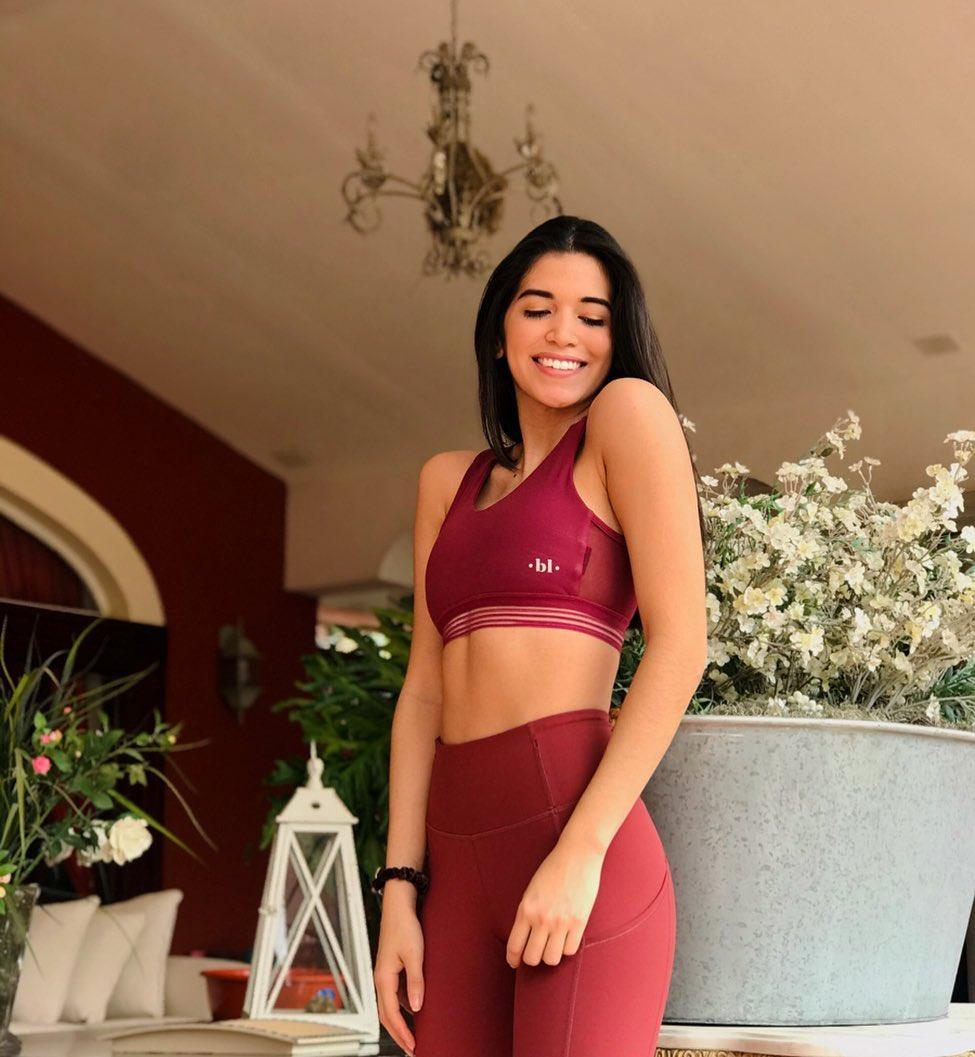
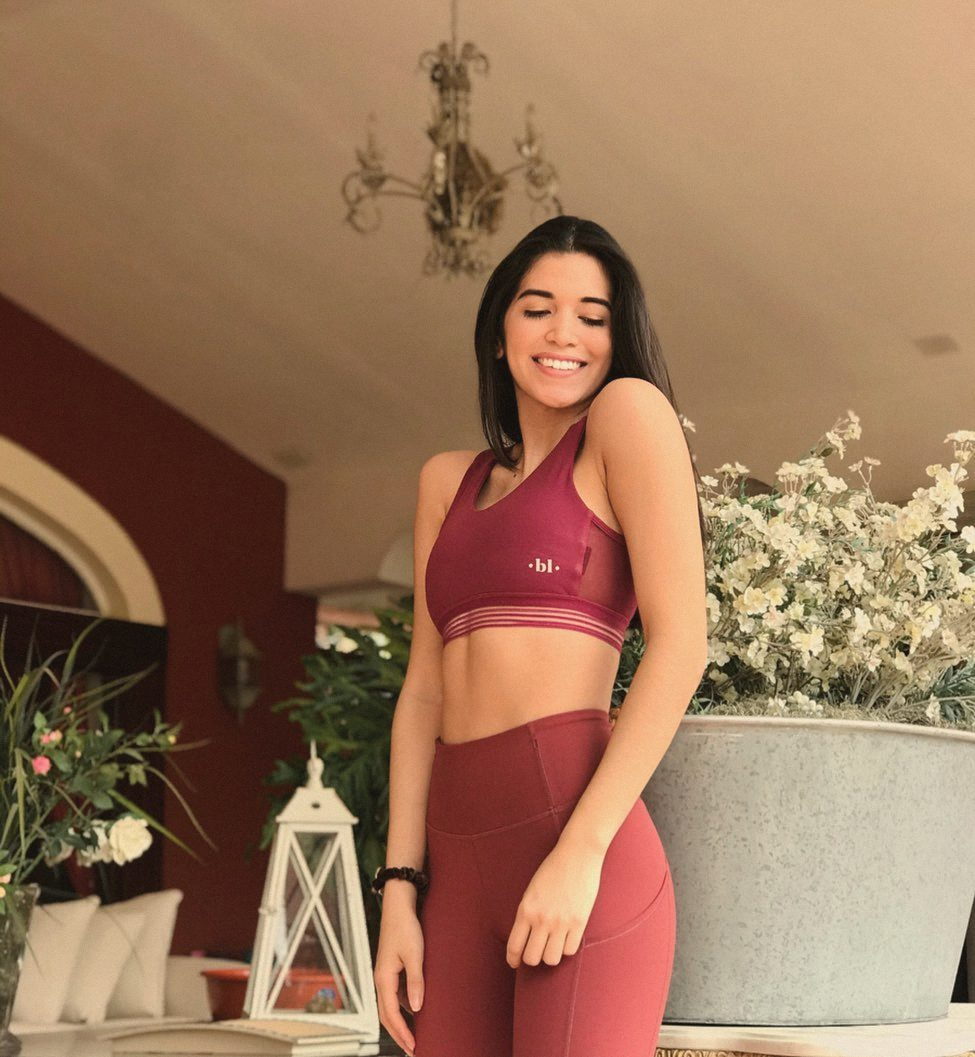
Polish homepage flow, photo grade and gallery
Warm film grade on all site photos (lighter on product mockups), resized.
Section rhythm: welcome block, story with kayak photo in arch, videos,
editorial mosaic gallery, collection teaser; consistent spacing, radii
and fade-in. Removed pool shot and unused images. Form unchanged.

Claude-Session: https://claude.ai/code/session_01Q68BjWFDyDSHyHZgopsCK4

diff --git a/index.html b/index.html
@@ -3,7 +3,8 @@
 <link rel="icon" href="fotos/amuru-symbol.png">
 <link rel="preload" href="fonts/cormorant-garamond-latin-500-normal.woff2" as="font" type="font/woff2" crossorigin>
 <link rel="preload" href="fonts/jost-latin-400-normal.woff2" as="font" type="font/woff2" crossorigin>
-<link rel="stylesheet" href="assets/site.css?v=2"></head>
+<script>document.documentElement.classList.add("js")</script>
+<link rel="stylesheet" href="assets/site.css?v=4"></head>
 <body class="home">
 <header class="site-header" id="top"><div class="bar wrap"><a class="brand" href="#top" aria-label="AMURU, home"><img src="fotos/amuru-symbol.png" alt=""/><span>AMURU</span></a><nav class="nav" aria-label="Main navigation"><a href="collection.html">Collection</a><a href="https://www.tiktok.com/@mafervasquezz" target="_blank" rel="noopener noreferrer">TikTok</a><a href="https://www.instagram.com/amuru.wellness/" target="_blank" rel="noopener noreferrer">Instagram</a></nav></div></header>
 <main>
@@ -20,47 +21,65 @@
   </div>
 </section>
 
-<section class="pillars" aria-label="What AMURU is about"><ul class="wrap">
-  <li><h3>Move</h3><p>Yoga and Pilates at your own pace.</p></li>
-  <li><h3>Breathe</h3><p>Honest conversations about mental health.</p></li>
-  <li><h3>Belong</h3><p>A community to grow with, here at home.</p></li>
-</ul></section>
-
-<section class="story" id="story"><div class="storygrid wrap">
-  <div class="letter">
-    <p class="eyebrow">My story</p>
-    <h2>Why I started <em>AMURU.</em></h2>
-    <p class="first">I moved to Europe when things were hard back home. Far from family, I was learning to look after my mental health and understand my ADHD.</p>
-    <p>Yoga gave me time to breathe and, little by little, to feel like myself again. Now I’m coming home to Honduras to share it, so we can move together and talk honestly about how we’re doing.</p>
-    <span class="sign">Mafer</span>
-  </div>
-  <figure class="practica"><img src="fotos/mafer-practicando-yoga.jpg" loading="lazy" alt="Mafer practicing yoga beside a pool with one leg reaching toward the sky"/></figure>
-</div></section>
-
-<section class="reels"><div class="reel-gallery wrap" aria-labelledby="clips-title" aria-roledescription="carousel">
-  <div class="reel-menu"><p class="eyebrow">Watch</p><h2 id="clips-title">From my <em>mat.</em></h2><p class="sub">A few moments from my practice, from acroyoga in Honduras to slow, everyday flows.</p>
-    <div class="tracklist" aria-label="Choose a video"><button type="button" data-slide="0">Acroyoga in Honduras</button><button type="button" data-slide="1">Flying lotus</button><button type="button" data-slide="2">A backbend, little by little</button><button type="button" data-slide="3">Finding my flow</button></div></div>
-  <div class="reel-stage">
-    <article><div class="reel-controls"><h3>Acroyoga in Honduras</h3><div><button class="ghost" type="button" aria-label="Previous video" data-step="-1">Prev</button><button class="ghost" type="button" aria-label="Next video" data-step="1">Next</button></div></div><iframe data-src="https://www.tiktok.com/player/v1/7057386661319118085?autoplay=0&amp;loop=0" title="Acroyoga in Honduras — Mafer Vásquez on TikTok" loading="lazy" allow="fullscreen; encrypted-media; picture-in-picture" allowfullscreen></iframe><a href="https://www.tiktok.com/@mafervasquezz/video/7057386661319118085">Watch on TikTok</a></article>
-    <article hidden><div class="reel-controls"><h3>Flying lotus</h3><div><button class="ghost" type="button" aria-label="Previous video" data-step="-1">Prev</button><button class="ghost" type="button" aria-label="Next video" data-step="1">Next</button></div></div><iframe data-src="https://www.tiktok.com/player/v1/7055035148139597062?autoplay=0&amp;loop=0" title="Flying lotus — Mafer Vásquez on TikTok" loading="lazy" allow="fullscreen; encrypted-media; picture-in-picture" allowfullscreen></iframe><a href="https://www.tiktok.com/@mafervasquezz/video/7055035148139597062">Watch on TikTok</a></article>
-    <article hidden><div class="reel-controls"><h3>A backbend, little by little</h3><div><button class="ghost" type="button" aria-label="Previous video" data-step="-1">Prev</button><button class="ghost" type="button" aria-label="Next video" data-step="1">Next</button></div></div><iframe data-src="https://www.instagram.com/reel/CQ4DgFrA72C/embed/" title="Mafer’s outdoor backbend on Instagram" loading="lazy" allow="fullscreen; encrypted-media" allowfullscreen></iframe><a href="https://www.instagram.com/reel/CQ4DgFrA72C/">Watch on Instagram</a></article>
-    <article hidden><div class="reel-controls"><h3>Finding my flow</h3><div><button class="ghost" type="button" aria-label="Previous video" data-step="-1">Prev</button><button class="ghost" type="button" aria-label="Next video" data-step="1">Next</button></div></div><iframe data-src="https://www.tiktok.com/player/v1/6965937785572297990?autoplay=0&amp;loop=0" title="Mafer’s yoga flow on TikTok" loading="lazy" allow="fullscreen; encrypted-media; picture-in-picture" allowfullscreen></iframe><a href="https://www.tiktok.com/@mafervasquezz/video/6965937785572297990">Watch on TikTok</a></article>
-  </div>
-</div></section>
-
-<section class="photo-gallery wrap" id="moments">
-  <div class="photo-heading"><div><p class="eyebrow">Life with AMURU</p><h2>Little <em>moments.</em></h2></div><div class="photo-nav"><button class="ghost" type="button" data-photo-step="-1" aria-label="Previous photo">Prev</button><button class="ghost" type="button" data-photo-step="1" aria-label="Next photo">Next</button></div></div>
-  <div class="galeria" id="photo-gallery" role="region" tabindex="0" aria-label="Photos from Mafer’s life and yoga practice">
-    <img src="fotos/instagram-CJCs2mjrTdW.jpg" loading="lazy" alt="Mafer holding a cross-legged headstand surrounded by trees"><img src="fotos/mafer-en-su-mat.jpg" loading="lazy" alt="Mafer smiling as she rests on her yoga mat"><img src="fotos/instagram-B-A_GzaK5sC.jpg" loading="lazy" alt="Mafer seated on a kayak with her hands raised together"><img src="fotos/instagram-BIIc-s-A4sX.jpg" loading="lazy" alt="Mafer balancing beside turquoise water"><img src="fotos/instagram-CYPrtsOuMMJ.jpg" loading="lazy" alt="Mafer practicing yoga on a swing over the sea"><img src="fotos/instagram-CYMh7jvuwlB.jpg" loading="lazy" alt="Mafer smiling with her arms raised on a seaside deck"><img src="fotos/ritual.jpg" loading="lazy" alt="Palo santo resting on a ceramic dish"><img src="fotos/stillness.jpg" loading="lazy" alt="A quiet terrace overlooking the water">
+<section class="intro section">
+  <div class="wrap narrow center reveal">
+    <img class="mark" src="fotos/amuru-symbol.png" alt="">
+    <p class="eyebrow">Welcome to AMURU</p>
+    <h2>A space to <em>move</em>, breathe and belong.</h2>
+    <p class="sub">Yoga and Pilates at your own pace, honest conversations about mental health, and a community to grow with, here at home in Honduras.</p>
   </div>
 </section>
 
-<section id="collection-preview" class="collection-preview wrap" aria-labelledby="collection-preview-title">
-  <div><p class="eyebrow">The AMURU collection</p><h2 id="collection-preview-title">A little more for <em>your everyday.</em></h2><p class="sub">Explore our yoga and Pilates sets, and the small essentials for your practice.</p><a class="btn" href="collection.html">Explore the collection</a></div>
-  <div class="collection-preview-images"><figure><img src="fotos/cork-ritual.jpg" alt="Cork Ritual Set with cork mat, blocks and canvas bag" loading="lazy"><figcaption>Cork Ritual Set</figcaption></figure><figure><img src="fotos/pilates.jpg" alt="Pilates Set with ring, ball, fabric bands and grip socks" loading="lazy"><figcaption>Pilates Set</figcaption></figure></div>
+<section class="story section tint" id="story">
+  <div class="wrap story-grid">
+    <div class="story-head reveal"><p class="eyebrow">My story</p><h2>Why I started <em>AMURU.</em></h2></div>
+    <figure class="story-photo reveal"><img src="fotos/instagram-B-A_GzaK5sC.jpg" loading="lazy" alt="Mafer meditating on a kayak at sunset, hands together above her head"/></figure>
+    <div class="story-body reveal">
+      <p class="lead">I moved to Europe when things were hard back home. Far from family, I was learning to look after my mental health and understand my ADHD.</p>
+      <p class="sub">Yoga gave me time to breathe and, little by little, to feel like myself again. Now I’m coming home to Honduras to share it, so we can move together and talk honestly about how we’re doing.</p>
+      <span class="sign">Mafer</span>
+    </div>
+  </div>
 </section>
 
-<section class="closing"><div class="wrap">
+<section class="watch section">
+  <div class="wrap watch-grid reel-gallery" aria-labelledby="clips-title" aria-roledescription="carousel">
+    <div class="watch-copy reveal"><p class="eyebrow">Watch</p><h2 id="clips-title">From my <em>mat.</em></h2><p class="sub">A few moments from my practice, from acroyoga in Honduras to slow, everyday flows.</p>
+      <div class="tracklist" aria-label="Choose a video"><button type="button" data-slide="0">Acroyoga in Honduras</button><button type="button" data-slide="1">Flying lotus</button><button type="button" data-slide="2">A backbend, little by little</button><button type="button" data-slide="3">Finding my flow</button></div></div>
+    <div class="reel-stage reveal">
+      <article><h3>Acroyoga in Honduras</h3><iframe data-src="https://www.tiktok.com/player/v1/7057386661319118085?autoplay=0&amp;loop=0" title="Acroyoga in Honduras — Mafer Vásquez on TikTok" loading="lazy" allow="fullscreen; encrypted-media; picture-in-picture" allowfullscreen></iframe><div class="reel-foot"><a href="https://www.tiktok.com/@mafervasquezz/video/7057386661319118085">Watch on TikTok</a></div></article>
+      <article hidden><h3>Flying lotus</h3><iframe data-src="https://www.tiktok.com/player/v1/7055035148139597062?autoplay=0&amp;loop=0" title="Flying lotus — Mafer Vásquez on TikTok" loading="lazy" allow="fullscreen; encrypted-media; picture-in-picture" allowfullscreen></iframe><div class="reel-foot"><a href="https://www.tiktok.com/@mafervasquezz/video/7055035148139597062">Watch on TikTok</a></div></article>
+      <article hidden><h3>A backbend, little by little</h3><iframe data-src="https://www.instagram.com/reel/CQ4DgFrA72C/embed/" title="Mafer’s outdoor backbend on Instagram" loading="lazy" allow="fullscreen; encrypted-media" allowfullscreen></iframe><div class="reel-foot"><a href="https://www.instagram.com/reel/CQ4DgFrA72C/">Watch on Instagram</a></div></article>
+      <article hidden><h3>Finding my flow</h3><iframe data-src="https://www.tiktok.com/player/v1/6965937785572297990?autoplay=0&amp;loop=0" title="Mafer’s yoga flow on TikTok" loading="lazy" allow="fullscreen; encrypted-media; picture-in-picture" allowfullscreen></iframe><div class="reel-foot"><a href="https://www.tiktok.com/@mafervasquezz/video/6965937785572297990">Watch on TikTok</a></div></article>
+      <div class="reel-nav-row"><div class="reel-nav"><button class="ghost" type="button" aria-label="Previous video" data-step="-1">Previous</button><button class="ghost" type="button" aria-label="Next video" data-step="1">Next</button></div></div>
+    </div>
+  </div>
+</section>
+
+<section class="moments section tint" id="moments">
+  <div class="wrap">
+    <div class="moments-head section-head reveal"><div><p class="eyebrow">Life with AMURU</p><h2>Little <em>moments.</em></h2></div></div>
+    <div class="mosaic reveal" aria-label="Photos from Mafer’s life and yoga practice">
+      <img class="m1" src="fotos/instagram-CYMh7jvuwlB.jpg" loading="lazy" alt="Mafer smiling with her arms raised on a seaside deck">
+      <img class="m2" src="fotos/instagram-CJCs2mjrTdW.jpg" loading="lazy" alt="Mafer holding a cross-legged headstand surrounded by trees">
+      <img class="m3" src="fotos/ritual.jpg" loading="lazy" alt="Palo santo resting on a ceramic dish">
+      <img class="m4" src="fotos/instagram-CYPrtsOuMMJ.jpg" loading="lazy" alt="Mafer practicing yoga on a swing over the sea">
+      <img class="m5" src="fotos/mafer-en-su-mat.jpg" loading="lazy" alt="Mafer smiling as she rests on her yoga mat">
+      <img class="m6" src="fotos/instagram-BIIc-s-A4sX.jpg" loading="lazy" alt="Mafer balancing beside turquoise water">
+      <img class="m7" src="fotos/stillness.jpg" loading="lazy" alt="A quiet terrace overlooking the water">
+    </div>
+  </div>
+</section>
+
+<section id="collection-preview" class="teaser section" aria-labelledby="collection-preview-title">
+  <div class="wrap teaser-grid">
+    <div class="teaser-copy reveal"><p class="eyebrow">The AMURU collection</p><h2 id="collection-preview-title">A little more for <em>your everyday.</em></h2><p class="sub">Explore our yoga and Pilates sets, and the small essentials for your practice.</p></div>
+    <div class="teaser-images reveal"><figure><img src="fotos/cork-ritual.jpg" alt="Cork Ritual Set with cork mat, blocks and canvas bag" loading="lazy"><figcaption>Cork Ritual Set</figcaption></figure><figure><img src="fotos/pilates.jpg" alt="Pilates Set with ring, ball, fabric bands and grip socks" loading="lazy"><figcaption>Pilates Set</figcaption></figure></div>
+    <div class="teaser-cta reveal"><a class="btn" href="collection.html">Explore the collection</a></div>
+  </div>
+</section>
+
+<section class="closing"><div class="wrap reveal">
   <p class="eyebrow">Join us</p><h2>Want to know when <em>AMURU opens?</em></h2><p class="sub">Leave your email and Mafer will let you know first.</p>
   <form method="post" action="https://docs.google.com/forms/d/e/1FAIpQLSfXtGnzMoglBGclzLk03h3wkVmcqxuoqThr8cAXqL5siRhx5w/formResponse?hl=en"><div class="fields"><input type="email" name="entry.332548926" autocomplete="email" maxlength="254" placeholder="Your email address" aria-label="Your email address" required><button class="primary">Join the community waitlist</button></div></form>
 </div></section>
@@ -90,12 +109,6 @@ let start;
 gallery.addEventListener('touchstart',e=>{start=e.touches[0];},{passive:true});
 gallery.addEventListener('touchend',e=>{if(!start)return;const dx=e.changedTouches[0].clientX-start.clientX,dy=e.changedTouches[0].clientY-start.clientY;if(Math.abs(dx)>45&&Math.abs(dx)>Math.abs(dy)*1.4)showSlide(current+(dx<0?1:-1));start=null;},{passive:true});
 showSlide(0);
-const photoGallery=document.querySelector('#photo-gallery');
-document.querySelectorAll('[data-photo-step]').forEach(b=>b.addEventListener('click',()=>{
-  const photos=Array.from(photoGallery.querySelectorAll('img'));
-  const ci=photos.reduce((best,p,i)=>Math.abs(p.offsetLeft-photos[0].offsetLeft-photoGallery.scrollLeft)<Math.abs(photos[best].offsetLeft-photos[0].offsetLeft-photoGallery.scrollLeft)?i:best,0);
-  const ni=Math.max(0,Math.min(photos.length-1,ci+Number(b.dataset.photoStep)));
-  photoGallery.scrollTo({left:photos[ni].offsetLeft-photos[0].offsetLeft});
-}));
+if('IntersectionObserver' in window){const io=new IntersectionObserver(es=>es.forEach(e=>{if(e.isIntersecting){e.target.classList.add('in');io.unobserve(e.target);}}),{rootMargin:'0px 0px -8% 0px'});document.querySelectorAll('.reveal').forEach(el=>io.observe(el));}else{document.querySelectorAll('.reveal').forEach(el=>el.classList.add('in'));}
 </script>
 </body></html>

diff --git a/assets/site.css b/assets/site.css
@@ -37,62 +37,85 @@ input[type=email]::placeholder{color:#8f817a}
 .note{font-size:13px;color:var(--soft);margin-top:12px}
 .hero-photo img{width:100%;height:clamp(460px,46vw,620px);object-fit:cover;object-position:42% 18%;border-radius:999px 999px 4px 4px}
 
-/* pillars */
-.pillars{border-block:1px solid var(--line);background:var(--paper)}
-.pillars ul{list-style:none;margin:0 auto;padding:0;display:grid;grid-template-columns:repeat(3,1fr)}
-.pillars li{padding:34px 32px;border-left:1px solid var(--line)}.pillars li:first-child{border-left:0;padding-left:0}
-.pillars h3{font-size:26px;line-height:1.1;margin-bottom:6px;color:var(--copper)}.pillars p{font-size:15px;color:var(--soft)}
+/* ---------- design system ---------- */
+:root{--r:14px;--r-img:18px;--sec:120px}
+.btn,button.primary,input[type=email]{border-radius:var(--r)}
+.ghost{border-radius:999px;min-height:42px;padding:0 20px;border-color:#cdb7a6}
+.section{padding:var(--sec) 0}
+.tint{background:var(--sand)}
+.sub{color:var(--soft);font-size:17px;line-height:1.7}
+.center{text-align:center}
+.narrow{max-width:720px}
+.section-head{margin-bottom:44px}
+.section-head h2{margin-bottom:0}
+.section-head .sub{margin-top:16px;max-width:46ch}
+.center .sub{margin-left:auto;margin-right:auto}
+
+/* gentle reveal on scroll */
+.js .reveal{opacity:0;transform:translateY(18px);transition:opacity .8s ease,transform .8s ease}
+.js .reveal.in{opacity:1;transform:none}
+
+/* welcome */
+.intro .mark{width:44px;height:auto;margin:0 auto 22px}
+.intro h2{font-size:clamp(40px,5vw,64px);line-height:1.05;max-width:16ch;margin:0 auto}
+.intro .sub{margin-top:22px;max-width:48ch}
 
 /* story */
-.story{padding:110px 0}
-.storygrid{display:grid;grid-template-columns:1fr 1fr;gap:9%;align-items:center}
-.letter p:not(.eyebrow){font-size:17px;color:var(--soft);margin-bottom:18px;max-width:46ch}
-.letter p.first{font:500 26px/1.4 var(--serif);color:var(--ink)}
-.sign{font:italic 500 30px/1 var(--serif);color:var(--copper);margin-top:8px;display:block}
-.practica img{width:100%;aspect-ratio:4/5;object-fit:cover;border-radius:4px}
+.story-grid{display:grid;grid-template-columns:1fr 1.05fr;grid-template-areas:"photo head" "photo body";column-gap:9%;align-items:center}
+.story-head{grid-area:head;align-self:end;margin-bottom:28px}
+.story-head h2{margin:0}
+.story-photo{grid-area:photo}
+.story-photo img{width:100%;aspect-ratio:4/5;object-fit:cover;object-position:50% 45%;border-radius:999px 999px var(--r-img) var(--r-img)}
+.story-body{grid-area:body;align-self:start}
+.story-body .lead{font:500 26px/1.45 var(--serif);color:var(--ink);margin-bottom:20px;max-width:30ch}
+.story-body .sub{max-width:44ch}
+.sign{font:italic 500 32px/1 var(--serif);color:var(--copper);margin-top:26px;display:block}
 
-/* videos */
-.reels{background:var(--sand);border-block:1px solid var(--line);padding:96px 0}
-.reel-gallery{display:grid;grid-template-columns:1fr 360px;gap:12%;align-items:center}
-.reel-menu p.sub{color:var(--soft);max-width:36ch}
-.tracklist{display:grid;margin-top:34px}
-.tracklist button{text-align:left;color:#7a6a61;background:transparent;border:0;border-top:1px solid #dcc8b8;font:500 24px/1.3 var(--serif);padding:16px 0;cursor:pointer}
-.tracklist button:last-child{border-bottom:1px solid #dcc8b8}
+/* watch */
+.watch-grid{display:grid;grid-template-columns:1fr 380px;gap:12%;align-items:center}
+.tracklist{display:grid;margin-top:36px}
+.tracklist button{text-align:left;color:#7a6a61;background:transparent;border:0;border-top:1px solid var(--line);font:500 24px/1.3 var(--serif);padding:16px 0;cursor:pointer}
+.tracklist button:last-child{border-bottom:1px solid var(--line)}
 .tracklist button[aria-current=true]{color:var(--ink);font-style:italic}
 .tracklist button[aria-current=true]::after{content:"";display:inline-block;width:7px;height:7px;border-radius:50%;background:var(--copper);margin-left:12px;vertical-align:middle}
-.reel-stage{min-width:0}.reel-controls{display:flex;justify-content:space-between;align-items:center;margin-bottom:14px;gap:12px}
-.reel-controls h3{font-size:22px;line-height:1.2}.reel-controls div{display:flex;gap:8px;flex-shrink:0}
-.reel-stage iframe{display:block;width:100%;height:560px;border:0;border-radius:4px;background:#2b211c}
-.reel-stage article[hidden]{display:none}.reel-stage article>a{display:inline-block;font-size:13px;color:var(--copper-d);margin-top:12px;text-underline-offset:4px}
+.reel-stage{min-width:0}
+.reel-stage article[hidden]{display:none}
+.reel-stage h3{font-size:24px;line-height:1.2;margin-bottom:14px}
+.reel-stage iframe{display:block;width:100%;height:600px;border:0;border-radius:var(--r-img);background:#2b211c;box-shadow:0 18px 40px rgba(59,46,39,.12)}
+.reel-foot{display:flex;align-items:center;justify-content:space-between;gap:12px;margin-top:16px}
+.reel-foot a{font-size:13px;color:var(--copper-d);text-underline-offset:4px}
+.reel-nav{display:flex;gap:8px}
 
-/* gallery */
-.photo-gallery{padding:96px 0 88px}
-.photo-heading{display:flex;align-items:flex-end;justify-content:space-between;gap:16px;margin-bottom:32px}.photo-heading h2{margin:0;white-space:nowrap}
+/* moments */
+.moments-head{display:flex;align-items:flex-end;justify-content:space-between;gap:16px}
 .photo-nav{display:none;gap:8px}
 .galeria{display:grid;grid-template-columns:repeat(4,minmax(0,1fr));gap:16px}
-.galeria img{width:100%;aspect-ratio:4/5;object-fit:cover;border-radius:4px}
+.galeria img{width:100%;aspect-ratio:4/5;object-fit:cover;border-radius:var(--r-img)}
 
 /* collection teaser */
-.collection-preview{border-top:1px solid var(--line);padding:96px 0;display:grid;grid-template-columns:.85fr 1.3fr;gap:7%;align-items:center}
-.collection-preview p.sub{color:var(--soft);max-width:34ch;margin-bottom:30px}
-.collection-preview-images{display:grid;grid-template-columns:1fr 1fr;gap:16px}
-.collection-preview-images img{width:100%;aspect-ratio:1;object-fit:cover;border-radius:4px}
-.collection-preview-images figcaption{font:500 21px/1.3 var(--serif);margin-top:12px}
+.teaser-grid{display:grid;grid-template-columns:.85fr 1.3fr;grid-template-areas:"copy images" "cta images";column-gap:7%;align-items:center}
+.teaser-copy{grid-area:copy;align-self:end}
+.teaser-copy h2{margin-bottom:0}
+.teaser-copy .sub{margin-top:16px;max-width:34ch}
+.teaser-cta{grid-area:cta;align-self:start;margin-top:30px}
+.teaser-images{grid-area:images;display:grid;grid-template-columns:1fr 1fr;gap:16px}
+.teaser-images img{width:100%;aspect-ratio:1;object-fit:cover;border-radius:var(--r-img)}
+.teaser-images figcaption{font:500 21px/1.3 var(--serif);margin-top:12px}
 
 /* closing */
-.closing{background:var(--deep);color:#fff;padding:96px 0;text-align:center}
+.closing{background:var(--deep);color:#fff;padding:var(--sec) 0;text-align:center}
 .closing .eyebrow{color:#e3c9b4}.closing h2{color:#fbf3ec;margin-bottom:14px}.closing h2 em{color:#e7b48c}
-.closing p.sub{color:#ead9cc;margin:0 auto 32px;max-width:40ch}
+.closing .sub{color:#ead9cc;margin:0 auto 32px;max-width:40ch}
 .closing .fields{margin:auto}.closing input[type=email]{border-color:transparent}
 .closing button.primary{background:#b06c3c}.closing button.primary:hover{background:#c27a47}
 
 /* footer */
-footer{padding:56px 0 36px;text-align:center}
+footer{padding:64px 0 36px;text-align:center}
 .foot-logo{width:132px;height:auto;margin:0 auto 26px}
 .foot nav{display:flex;justify-content:center;gap:28px}.foot nav a{font:500 12px/1 var(--sans);letter-spacing:.16em;text-transform:uppercase;text-decoration:none}.foot nav a:hover{text-decoration:underline;text-underline-offset:5px}
 .legal{border-top:1px solid var(--line);margin-top:32px;padding-top:20px;font-size:13px;color:var(--soft)}
 
-/* phone */
+/* ---------- phone ---------- */
 @media(max-width:760px){
 .wrap{width:calc(100% - 40px)}
 h2{font-size:40px;margin-bottom:16px}
@@ -118,32 +141,37 @@ h2{font-size:40px;margin-bottom:16px}
 .hero input[type=email]{background:rgba(251,246,242,.96);border-color:transparent}
 input[type=email],.btn,button.primary{min-height:50px}
 .hero .note{color:#e9d6c8;font-size:12px;margin-top:9px;text-align:center}
-.pillars ul{grid-template-columns:1fr}
-.pillars li{padding:20px 0;border-left:0;border-top:1px solid var(--line);display:grid;grid-template-columns:110px 1fr;gap:12px;align-items:baseline}
-.pillars li:first-child{border-top:0}
-.pillars h3{font-size:22px;margin:0}.pillars p{font-size:14px;line-height:1.5}
-.story{padding:64px 0}
-.storygrid{grid-template-columns:1fr;gap:32px}
-.letter p:not(.eyebrow){font-size:16px}.letter p.first{font-size:22px}
-.practica img{aspect-ratio:4/3;object-position:center 60%}
-.reels{padding:56px 0}
-.reel-gallery{grid-template-columns:1fr;gap:22px}.tracklist{display:none}
-.reel-stage{max-width:380px;width:100%;margin:auto}.reel-stage iframe{height:min(62svh,540px)}
-.photo-gallery{padding:56px 0}
-.photo-heading{margin-bottom:20px;align-items:center}.photo-heading h2{font-size:36px}.photo-nav{display:flex}
+:root{--sec:84px}
+.sub{font-size:16px}
+.section-head{margin-bottom:28px}
+.intro .mark{width:36px;margin-bottom:18px}
+.intro h2{font-size:38px}
+.intro .sub{margin-top:18px}
+.story-grid{grid-template-columns:1fr;grid-template-areas:"head" "photo" "body"}
+.story-head{margin-bottom:26px}
+.story-photo img{aspect-ratio:4/5}
+.story-body{margin-top:30px}
+.story-body .lead{font-size:23px}
+.sign{font-size:30px;margin-top:20px}
+.watch-grid{grid-template-columns:1fr;gap:28px}
+.watch-copy .sub{margin-top:16px}
+.tracklist{display:none}
+.reel-stage{width:100%;max-width:400px;margin:auto}
+.reel-stage h3{font-size:22px}
+.reel-stage iframe{height:min(64svh,560px)}
+.moments-head{align-items:center}.photo-nav{display:flex}
 .galeria{display:flex;gap:12px;overflow-x:auto;scroll-snap-type:x mandatory;scroll-behavior:smooth;overscroll-behavior-x:contain;scrollbar-width:none;margin-right:-20px;padding-right:20px}
 .galeria::-webkit-scrollbar{display:none}
-.galeria img{flex:0 0 82%;width:82%;scroll-snap-align:start}
-.collection-preview{grid-template-columns:1fr;gap:28px;padding:56px 0}
-.collection-preview p.sub{margin-bottom:22px}.collection-preview .btn{width:100%}
-.collection-preview-images{gap:12px}.collection-preview-images figcaption{font-size:18px}
-.closing{padding:64px 0}
-footer{padding:48px 0 32px}.foot-logo{width:116px}.foot nav{gap:20px}
+.galeria img{flex:0 0 80%;width:80%;scroll-snap-align:start}
+.teaser-grid{grid-template-columns:1fr;grid-template-areas:"copy" "images" "cta"}
+.teaser-images{margin-top:28px;gap:12px}.teaser-images figcaption{font-size:18px;margin-top:10px}
+.teaser-cta{margin-top:28px}.teaser-cta .btn{width:100%}
+footer{padding:56px 0 32px}.foot-logo{width:116px}.foot nav{gap:20px}
 }
-@media(max-width:400px){.photo-heading h2{font-size:30px}.photo-nav .ghost{padding:0 12px}}
-@media(max-width:360px){.photo-nav .ghost{padding:0 9px;font-size:10px;letter-spacing:.08em}.nav{gap:9px}.nav a{font-size:9px;letter-spacing:.05em}.brand{gap:6px}.brand span{font-size:16px;letter-spacing:.14em}.brand img{width:18px;height:24px}.pillars li{grid-template-columns:96px 1fr}.photo-heading h2{font-size:26px}.btn,button.primary{letter-spacing:.06em;padding:0 16px}}
+@media(max-width:400px){.moments-head h2{font-size:34px}.photo-nav .ghost{padding:0 14px}}
+@media(max-width:360px){.photo-nav .ghost{padding:0 11px;font-size:10px;letter-spacing:.08em}.moments-head h2{font-size:30px}.nav{gap:9px}.nav a{font-size:9px;letter-spacing:.05em}.brand{gap:6px}.brand span{font-size:16px;letter-spacing:.14em}.brand img{width:18px;height:24px}.btn,button.primary{letter-spacing:.06em;padding:0 16px}.intro h2{font-size:34px}}
 @media(max-width:760px) and (max-height:620px){.hero .eyebrow,.hero .note{display:none}.hero h1{font-size:40px;margin-bottom:4px}.lede{font-size:14px;margin-bottom:12px}input[type=email],button.primary{min-height:46px}.hero-copy{bottom:16px}}
-@media(prefers-reduced-motion:reduce){html,.galeria{scroll-behavior:auto}}
+@media(prefers-reduced-motion:reduce){html,.galeria{scroll-behavior:auto}.js .reveal{opacity:1;transform:none;transition:none}}
 
 /* collection page */
 .page-intro{display:grid;grid-template-columns:1fr auto;gap:48px;align-items:center;padding:72px 0 48px}
@@ -151,21 +179,29 @@ footer{padding:48px 0 32px}.foot-logo{width:116px}.foot nav{gap:20px}
 .page-intro p.sub{color:var(--soft);max-width:44ch}
 .page-intro img{width:180px;height:auto}
 .status{display:inline-block;margin-top:22px;padding:8px 14px;border:1px solid var(--line);border-radius:999px;font:500 11px/1 var(--sans);letter-spacing:.16em;text-transform:uppercase;color:var(--copper-d);background:var(--paper)}
-.shelf{padding:24px 0 88px}.shelf+.shelf{border-top:1px solid var(--line);padding-top:72px}
+.shelf{padding:24px 0 96px}.shelf+.shelf{background:var(--sand);padding-top:96px;box-shadow:0 0 0 100vmax var(--sand);clip-path:inset(0 -100vmax)}
 .shelf-head{margin-bottom:32px}.shelf-head h2{margin-bottom:10px}.shelf-head p{color:var(--soft)}
 .product-grid{display:grid;grid-template-columns:repeat(3,minmax(0,1fr));gap:28px}
-.product-grid img{width:100%;aspect-ratio:1;object-fit:cover;border-radius:4px;background:var(--sand)}
+.product-grid img{width:100%;aspect-ratio:1;object-fit:cover;border-radius:var(--r-img);background:var(--sand)}
 .product-grid h3{font-size:27px;line-height:1.15;margin:18px 0 8px}
 .product-grid p{font-size:15px;color:var(--soft)}
 @media(max-width:760px){
 .page-intro{grid-template-columns:1fr;gap:20px;padding:40px 0 28px}
 .page-intro img{width:96px;grid-row:1}
 .page-intro h1{font-size:44px}
-.shelf{padding:12px 0 56px}.shelf+.shelf{padding-top:48px}
+.shelf{padding:12px 0 72px}.shelf+.shelf{padding-top:72px}
 .shelf-head{margin-bottom:22px}
 .product-grid{grid-template-columns:1fr;gap:32px}
 .product-grid h3{font-size:24px;margin-top:14px}
 }
+.reel-foot{justify-content:center}
+.reel-nav-row{display:flex;justify-content:center;margin-top:18px}
 
-/* rounded email field and buttons */
-input[type=email],button.primary,.btn{border-radius:14px}
+/* editorial mosaic (Little moments) */
+.mosaic{display:grid;grid-template-columns:repeat(4,minmax(0,1fr));grid-auto-rows:clamp(150px,17vw,250px);gap:16px;grid-template-areas:"m1 m1 m2 m3" "m1 m1 m2 m4" "m5 m6 m7 m4"}
+.mosaic img{width:100%;height:100%;object-fit:cover;border-radius:var(--r-img)}
+.mosaic .m1{grid-area:m1;object-position:50% 30%}.mosaic .m2{grid-area:m2;object-position:28% 50%}.mosaic .m3{grid-area:m3}
+.mosaic .m4{grid-area:m4;object-position:55% 60%}.mosaic .m5{grid-area:m5;object-position:50% 20%}.mosaic .m6{grid-area:m6;object-position:50% 35%}.mosaic .m7{grid-area:m7}
+@media(max-width:760px){
+.mosaic{grid-template-columns:1fr 1fr;grid-auto-rows:clamp(130px,42vw,190px);gap:10px;grid-template-areas:"m1 m3" "m1 m6" "m5 m2" "m4 m2" "m7 m7"}
+}

diff --git a/collection.html b/collection.html
@@ -3,7 +3,7 @@
 <link rel="icon" href="fotos/amuru-symbol.png">
 <link rel="preload" href="fonts/cormorant-garamond-latin-500-normal.woff2" as="font" type="font/woff2" crossorigin>
 <link rel="preload" href="fonts/jost-latin-400-normal.woff2" as="font" type="font/woff2" crossorigin>
-<link rel="stylesheet" href="assets/site.css?v=2">
+<link rel="stylesheet" href="assets/site.css?v=4">
 </head>
 <body class="collection-page">
 <header class="site-header" id="top"><div class="bar wrap"><a class="brand" href="/" aria-label="AMURU, home"><img src="fotos/amuru-symbol.png" alt=""/><span>AMURU</span></a><nav class="nav" aria-label="Main navigation"><a href="/">Home</a><a href="https://www.tiktok.com/@mafervasquezz" target="_blank" rel="noopener noreferrer">TikTok</a><a href="https://www.instagram.com/amuru.wellness/" target="_blank" rel="noopener noreferrer">Instagram</a></nav></div></header>
